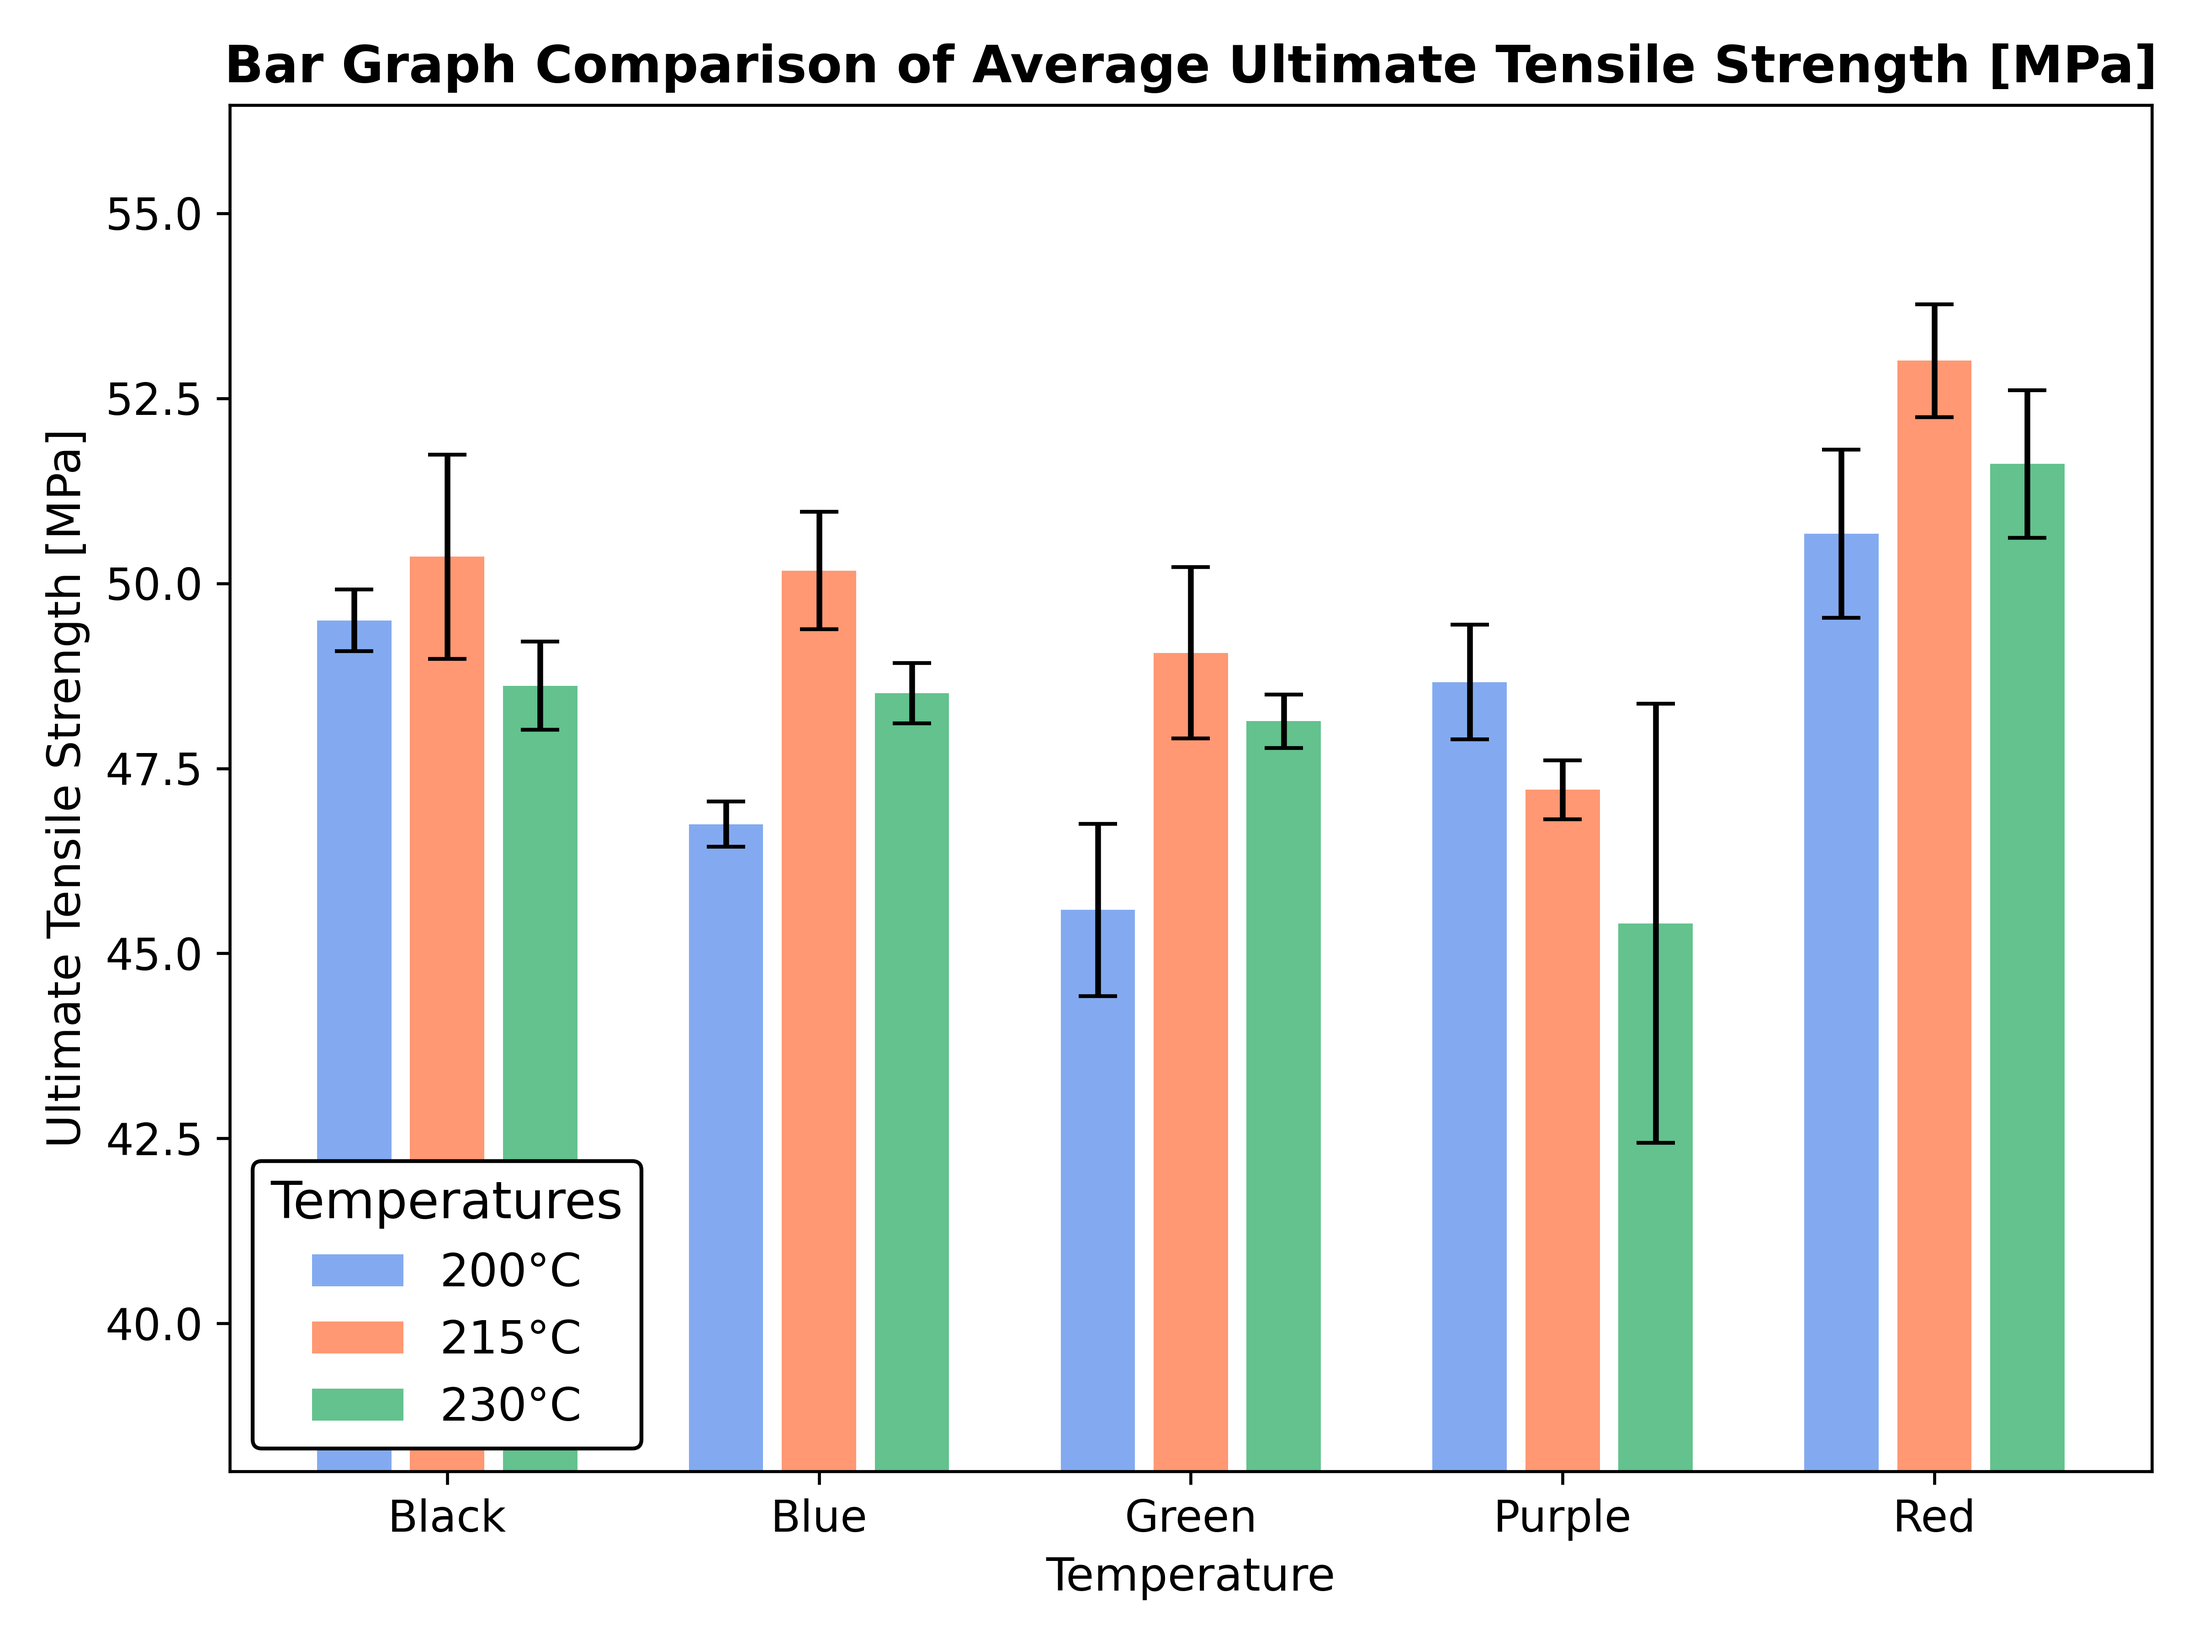
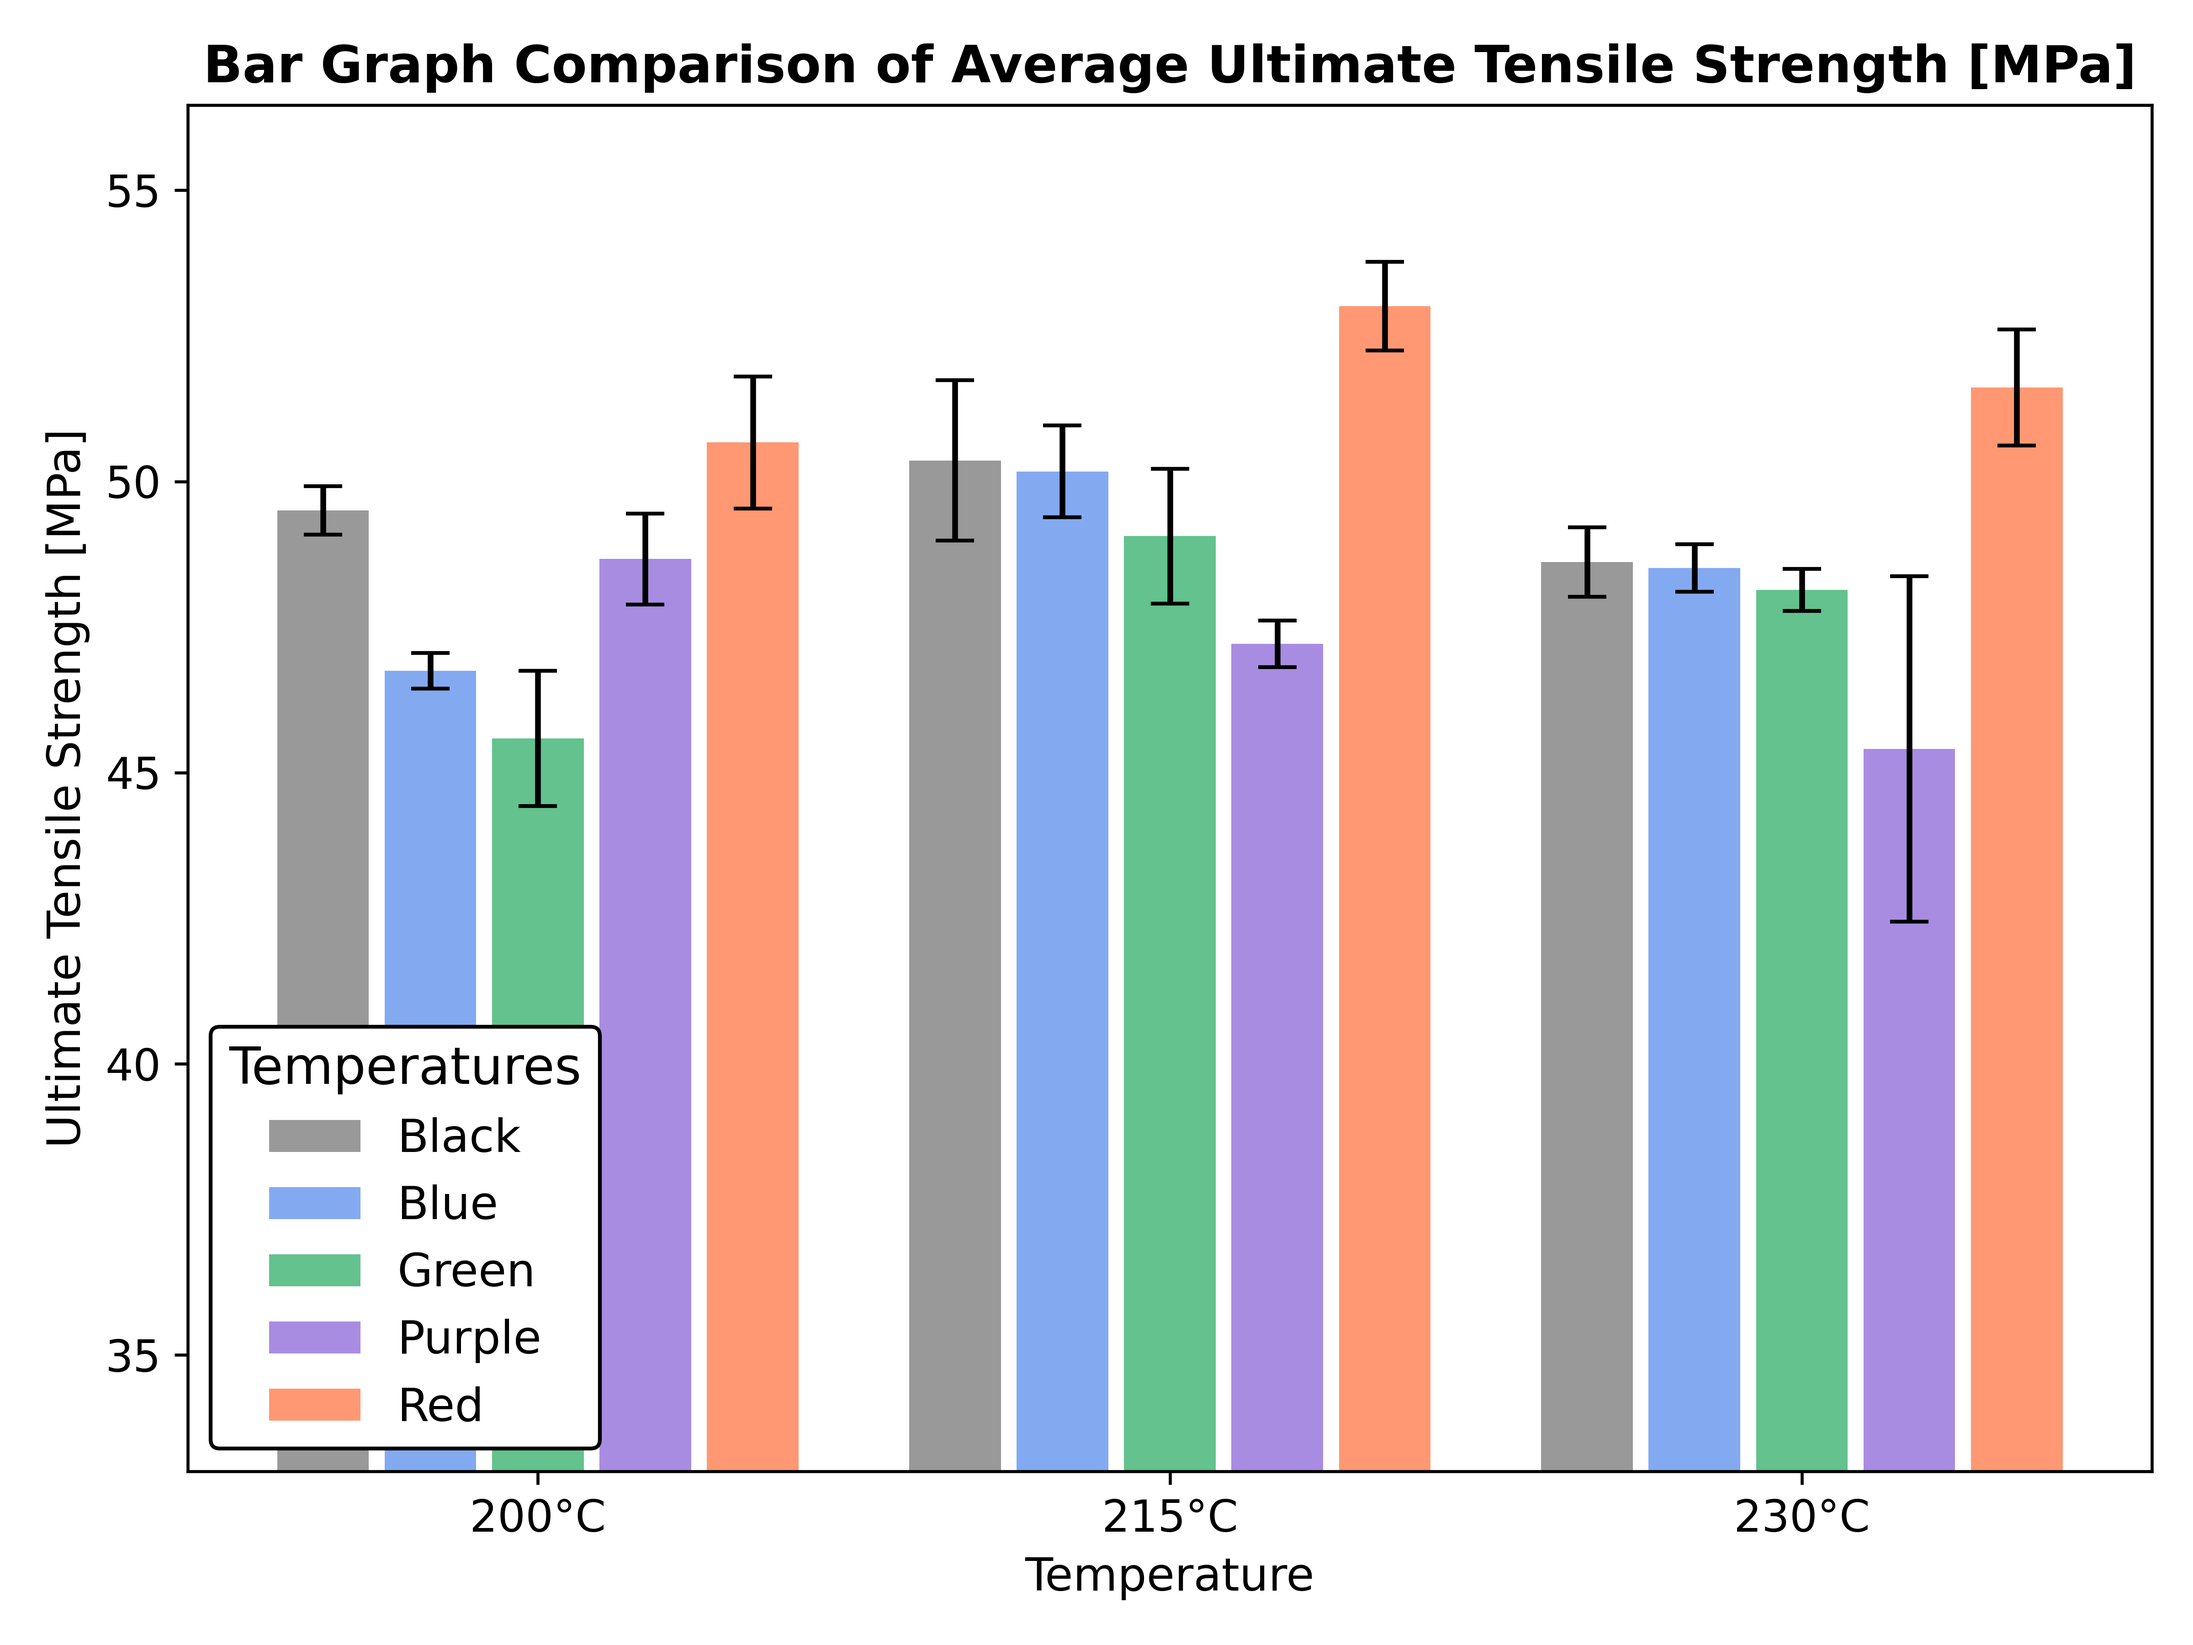
Redid the bar graphs so that the bars are grouped by temperature instead of color

diff --git a/Data_Processing/Tensile-Part6-BarGraph.py b/Data_Processing/Tensile-Part6-BarGraph.py
@@ -21,13 +21,14 @@ def collect_from_pandas_dataframe(data_frame, order_groups, avg_label, std_label
 
     return avg, std
 
-def bargraph_result(avg_values, std_values, color_label, temp_label,
+def bargraph_result(avg_values, std_values, x_tick_labels, legend_labels,
                     y_label, y_start, save_path):
     # Bar Graph Settings
-    x = np.arange(len(color_label))  # X positions for the bars
-    width = 0.2             # Width of each bar
-    spacing = 0.05          # Extra spacing between bars within each group
-    bar_colors = ['cornflowerblue', 'coral', 'mediumseagreen']
+    x = np.arange(len(x_tick_labels))  # X positions for the bars
+    width = 0.145            # Width of each bar
+    spacing = 0.025          # Extra spacing between bars within each group
+    bar_colors = ['gray', 'cornflowerblue', 'mediumseagreen',
+                  'mediumpurple', 'coral']
 
     # Initializing a figure
     plt.figure(figsize=(8, 6))
@@ -36,15 +37,15 @@ def bargraph_result(avg_values, std_values, color_label, temp_label,
     tick_size = 11.5
 
     # Plot each category
-    for i, (temp_num, bar_color) in enumerate(zip(temp_label, bar_colors)):
+    for i, (temp_num, bar_color) in enumerate(zip(legend_labels, bar_colors)):
         # Adjust bar positions with spacing
         bar_positions = x + i * (width + spacing)
         plt.bar(bar_positions, avg_values[i], yerr=std_values[i], capsize=5,
                 width=width, label=temp_num, color=bar_color, alpha=0.8)
 
     # Add labels and title
-    plt.xticks(x + (width + spacing) * (len(temp_label) - 1) / 2,
-               color_label, fontsize=tick_size)  # Center the x-axis ticks
+    plt.xticks(x + (width + spacing) * (len(legend_labels) - 1) / 2,
+               x_tick_labels, fontsize=tick_size)  # Center the x-axis ticks
     plt.ylim(bottom=y_start)
     plt.xlabel('Temperature', fontsize=label_size)
     plt.ylabel(f'{y_label}', fontsize=label_size)
@@ -70,12 +71,16 @@ def bargraph_result(avg_values, std_values, color_label, temp_label,
 
 # Order of Groups
 grouping_order = np.array([
-    # Temperature of 200C
-    ['Black_200', 'Blue_200', 'Green_200', 'Purple_200', 'Red_200'],
-    # Temperature of 215C
-    ['Black_215', 'Blue_215', 'Green_215', 'Purple_215', 'Red_215'],
-    # Temperature of 230C
-    ['Black_230', 'Blue_230', 'Green_230', 'Purple_230', 'Red_230']
+    # Black Filament
+    ['Black_200', 'Black_215', 'Black_230'],
+    # Blue Filament
+    ['Blue_200', 'Blue_215', 'Blue_230'],
+    # Green Filament
+    ['Green_200', 'Green_215', 'Green_230'],
+    # Purple Filament
+    ['Purple_200', 'Purple_215', 'Purple_230'],
+    # Red Filament
+    ['Red_200', 'Red_215', 'Red_230'],
 ])
 
 # Extracting Data from csv file
@@ -104,14 +109,14 @@ save_path_youngmodulus = "Tensile-Results/BarGraph_YoungModulus.png"
 save_path_yieldstrength = "Tensile-Results/BarGraph_YieldStrength.png"
 
 
-bargraph_result(avg_uts, std_uts, colors, temperatures,
+bargraph_result(avg_uts, std_uts, temperatures, colors,
                 "Ultimate Tensile Strength [MPa]",
-                38, save_path_uts)
+                33, save_path_uts)
 
-bargraph_result(avg_youngmodulus, std_youngmodulus, colors, temperatures,
+bargraph_result(avg_youngmodulus, std_youngmodulus, temperatures, colors,
                 "Young's Modulus [MPa]",
-                750, save_path_youngmodulus)
+                720, save_path_youngmodulus)
 
-bargraph_result(avg_yieldstrength, std_yieldstrength, colors, temperatures,
+bargraph_result(avg_yieldstrength, std_yieldstrength, temperatures, colors,
                 "Yield Strength [MPa]",
-                8, save_path_yieldstrength)
+                7, save_path_yieldstrength)

diff --git a/Data_Processing/3Point-Part5-BarGraph.py b/Data_Processing/3Point-Part5-BarGraph.py
@@ -21,13 +21,14 @@ def collect_from_pandas_dataframe(data_frame, order_groups, avg_label, std_label
 
     return avg, std
 
-def bargraph_result(avg_values, std_values, color_label, temp_label,
+def bargraph_result(avg_values, std_values, x_tick_labels, legend_labels,
                     y_label, y_start, save_path):
     # Bar Graph Settings
-    x = np.arange(len(color_label))  # X positions for the bars
-    width = 0.2             # Width of each bar
-    spacing = 0.05          # Extra spacing between bars within each group
-    bar_colors = ['cornflowerblue', 'coral', 'mediumseagreen']
+    x = np.arange(len(x_tick_labels))  # X positions for the bars
+    width = 0.145            # Width of each bar
+    spacing = 0.025          # Extra spacing between bars within each group
+    bar_colors = ['gray', 'cornflowerblue', 'mediumseagreen',
+                  'mediumpurple', 'coral']
 
     # Initializing a figure
     plt.figure(figsize=(8, 6))
@@ -36,15 +37,15 @@ def bargraph_result(avg_values, std_values, color_label, temp_label,
     tick_size = 11.5
 
     # Plot each category
-    for i, (temp_num, bar_color) in enumerate(zip(temp_label, bar_colors)):
+    for i, (temp_num, bar_color) in enumerate(zip(legend_labels, bar_colors)):
         # Adjust bar positions with spacing
         bar_positions = x + i * (width + spacing)
         plt.bar(bar_positions, avg_values[i], yerr=std_values[i], capsize=5,
                 width=width, label=temp_num, color=bar_color, alpha=0.8)
 
     # Add labels and title
-    plt.xticks(x + (width + spacing) * (len(temp_label) - 1) / 2,
-               color_label, fontsize=tick_size)  # Center the x-axis ticks
+    plt.xticks(x + (width + spacing) * (len(legend_labels) - 1) / 2,
+               x_tick_labels, fontsize=tick_size)  # Center the x-axis ticks
     plt.ylim(bottom=y_start)
     plt.xlabel('Temperature', fontsize=label_size)
     plt.ylabel(f'{y_label}', fontsize=label_size)
@@ -70,12 +71,16 @@ def bargraph_result(avg_values, std_values, color_label, temp_label,
 
 # Order of Groups
 grouping_order = np.array([
-    # Temperature of 200C
-    ['Black_200', 'Blue_200', 'Green_200', 'Purple_200', 'Red_200'],
-    # Temperature of 215C
-    ['Black_215', 'Blue_215', 'Green_215', 'Purple_215', 'Red_215'],
-    # Temperature of 230C
-    ['Black_230', 'Blue_230', 'Green_230', 'Purple_230', 'Red_230']
+    # Black Filament
+    ['Black_200', 'Black_215', 'Black_230'],
+    # Blue Filament
+    ['Blue_200', 'Blue_215', 'Blue_230'],
+    # Green Filament
+    ['Green_200', 'Green_215', 'Green_230'],
+    # Purple Filament
+    ['Purple_200', 'Purple_215', 'Purple_230'],
+    # Red Filament
+    ['Red_200', 'Red_215', 'Red_230'],
 ])
 
 # Extracting Data from csv file
@@ -100,11 +105,11 @@ temperatures = ['200°C', '215°C', '230°C']                  # Y-axis labels
 save_path_flex_modulus = "3Point-Results/BarGraph_FlexModulus.png"
 save_path_flex_yieldstrength = "3Point-Results/BarGraph_Flex_YieldStrength.png"
 
-bargraph_result(avg_flexmodulus, std_flexmodulus, colors, temperatures,
+bargraph_result(avg_flexmodulus, std_flexmodulus, temperatures, colors,
                 "Flexural Modulus [MPa]",
                 1.3, save_path_flex_modulus)
 
 bargraph_result(avg_flex_yieldstrength, std_flex_yieldstrength,
-                colors, temperatures,
+                temperatures, colors,
                 "Flexural Yield Strength [MPa]",
                 0.018, save_path_flex_yieldstrength)
